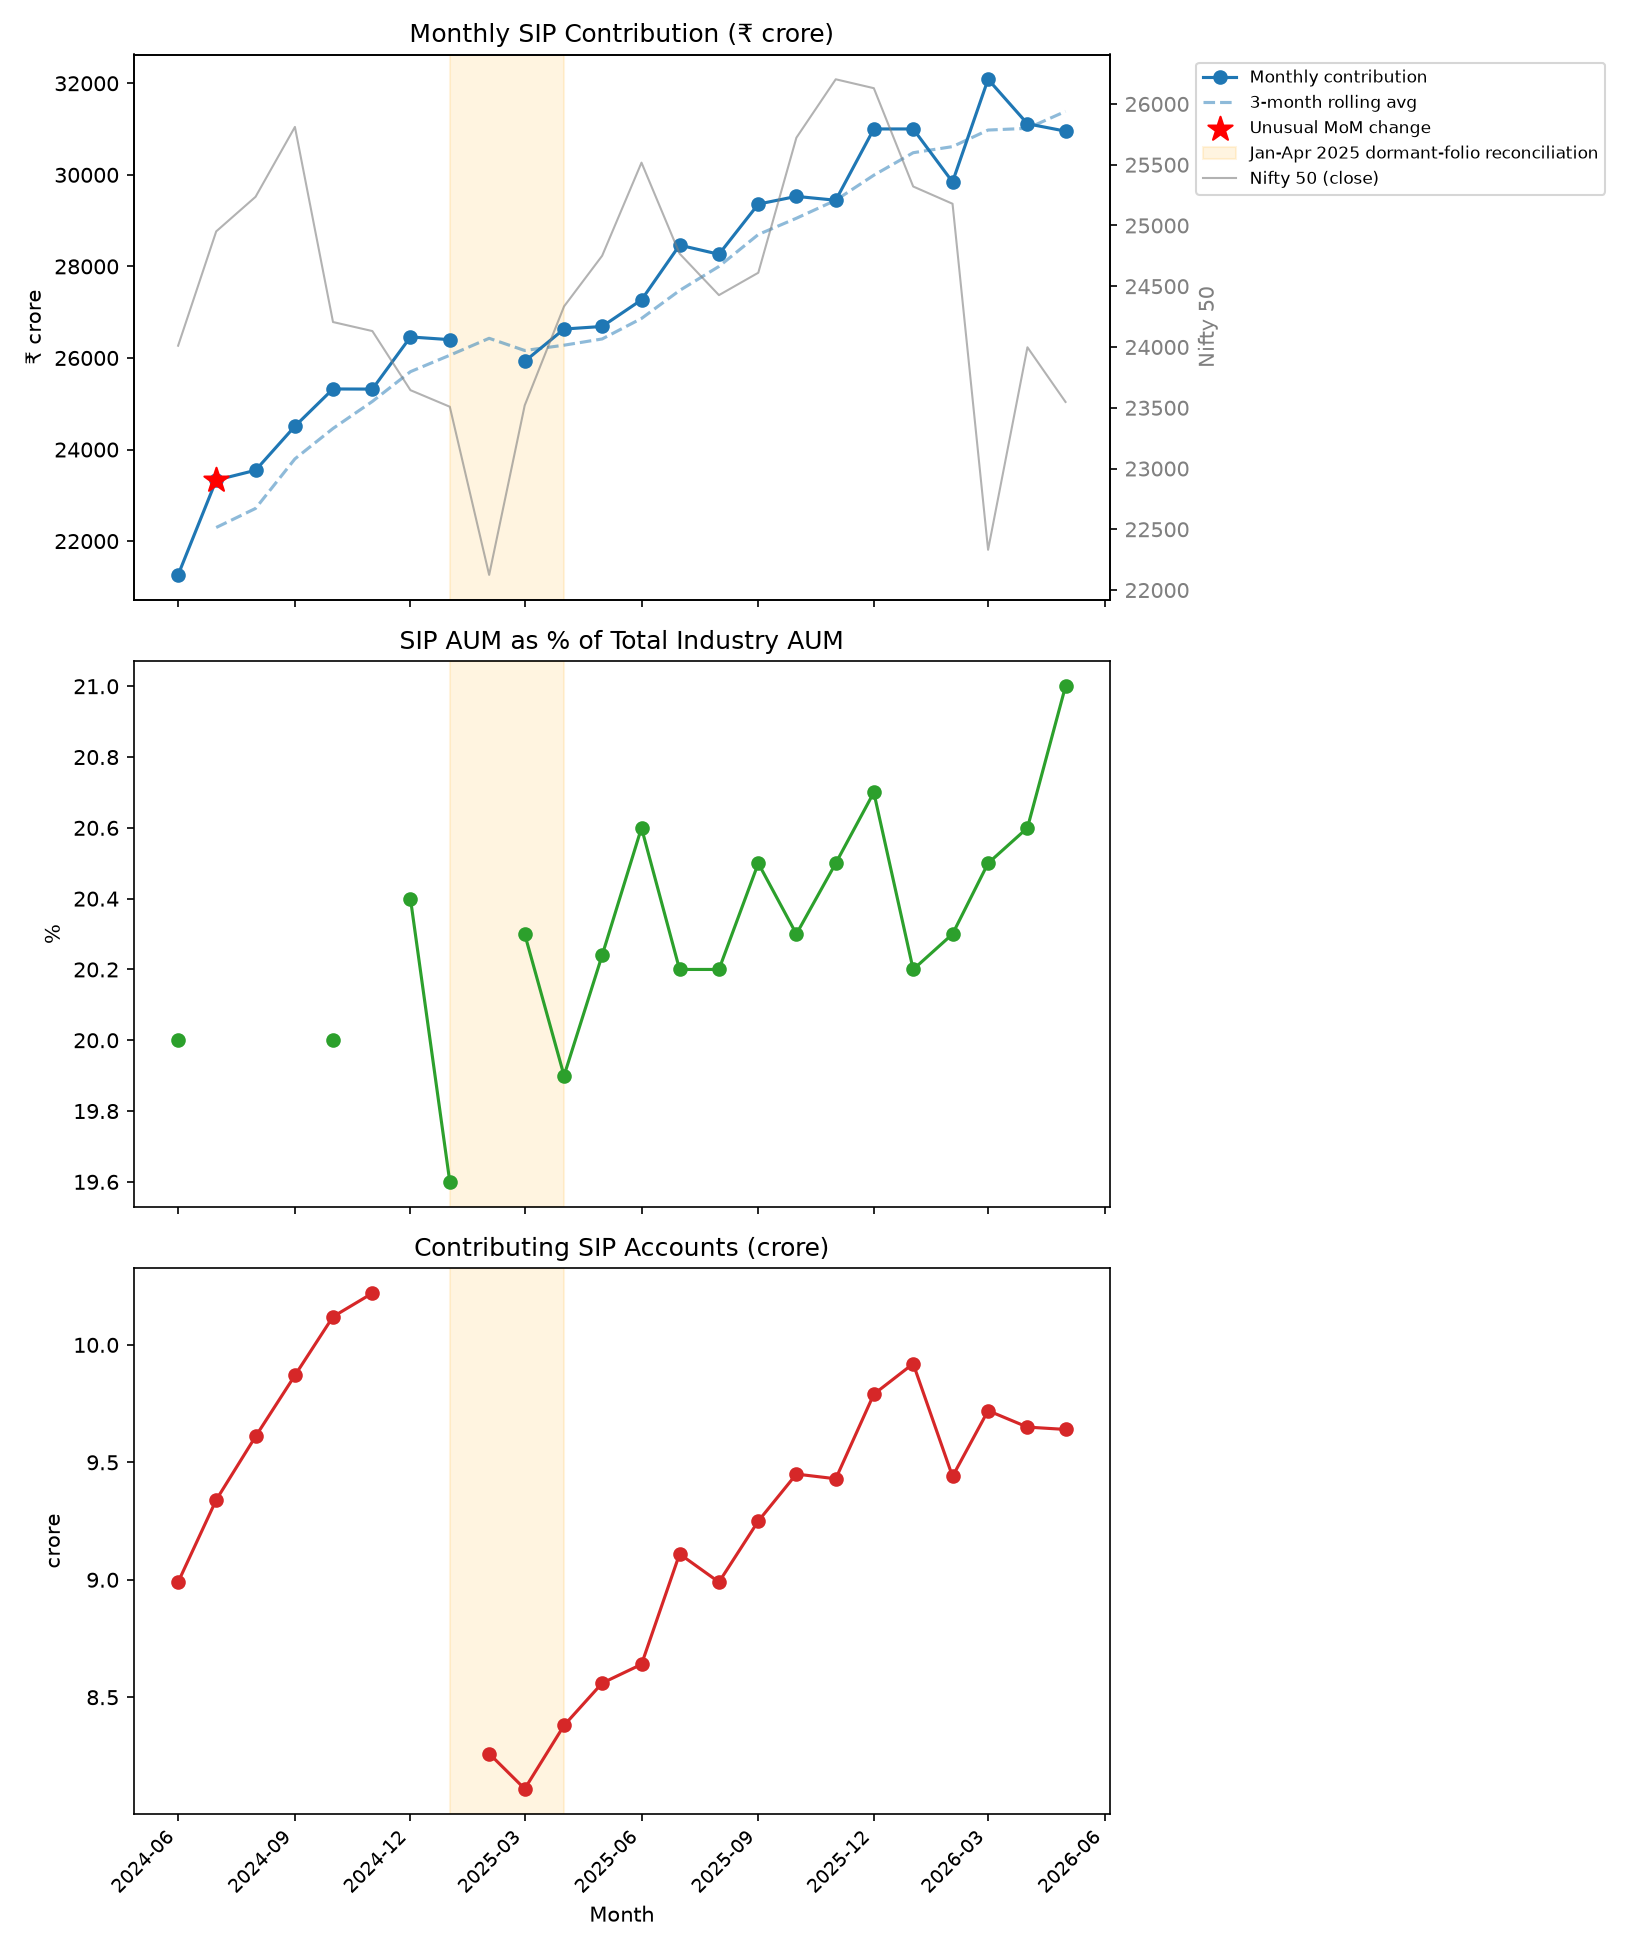
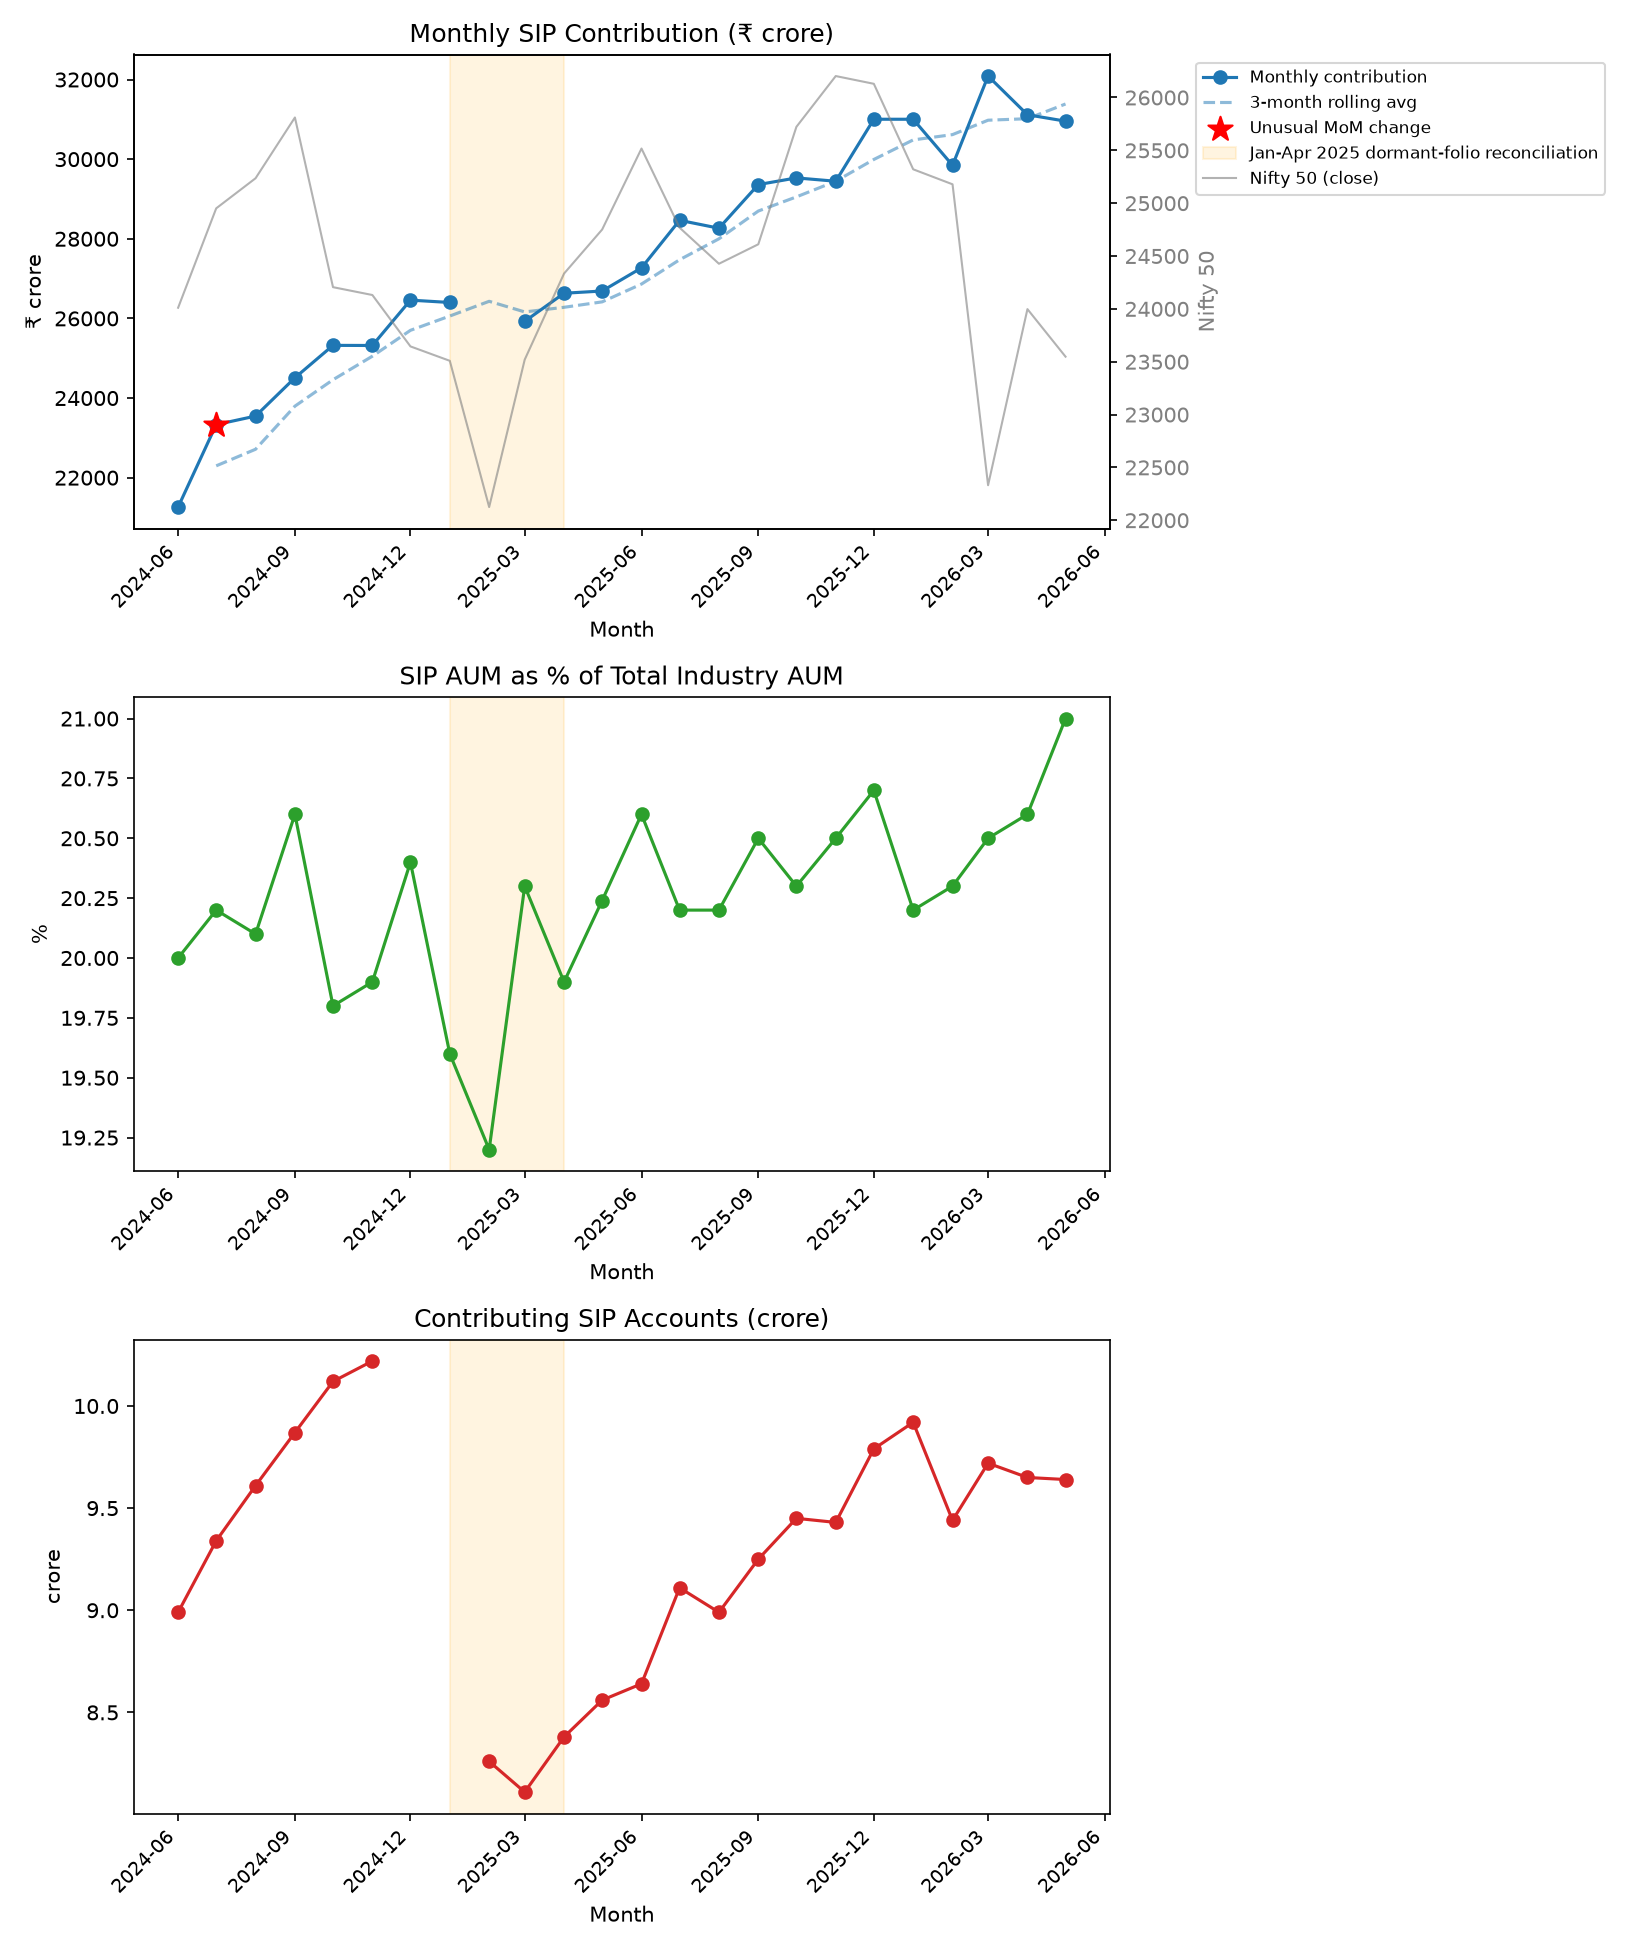
Close SIP AUM % gap, show x-axis labels on every chart panel
parse_pdf.py's sip_aum_pct_of_total_aum patterns required "as a %" and a
pipe-delimited table, but AMFI sometimes writes "as %" (no "a") or renders
the SIP trend table without pipes -- same class of bug fixed earlier for
contributing_accounts_cr. Coverage goes from 19/24 to 24/24 months.

Chart: sharex=True was hiding x-axis labels on the top two panels; each
panel now shows its own month labels instead of relying on the bottom one.
Outlier insight text now notes the small-sample caveat on the z-score.

diff --git a/data/processed/report.html b/data/processed/report.html
@@ -24,8 +24,8 @@
 <li>SIP AUM (2026-05): ₹17.12 lakh crore, 21.0% of total industry AUM.</li>
 <li>Contributing SIP accounts (2026-05): 9.64 crore.</li>
 <li>Net equity inflow (2026-05): ₹22,907 crore.</li>
-<li>Unusual SIP contribution months (>2σ MoM move): 2024-07 (+9.7% MoM).</li>
-<li>Unusual Total industry AUM months (>2σ MoM move): 2026-04 (+11.1% MoM), 2026-03 (-10.1% MoM).</li>
+<li>Unusual SIP contribution months (>2σ MoM move, of 21 months' worth of MoM data): 2024-07 (+9.7% MoM). Small-sample caveat: with under two years of history the z-score threshold itself is noisy, so treat this as 'worth a second look', not a statistically robust anomaly detector.</li>
+<li>Unusual Total industry AUM months (>2σ MoM move, of 23 months' worth of MoM data): 2026-04 (+11.1% MoM), 2026-03 (-10.1% MoM). Small-sample caveat: with under two years of history the z-score threshold itself is noisy, so treat this as 'worth a second look', not a statistically robust anomaly detector.</li>
 <li>Avg. monthly SIP ticket size (2026-05): ~₹3,211 per account. Note: this jumped across Jan-Apr 2025 mechanically, because the dormant-folio purge shrank the accounts denominator faster than contribution changed -- not a sign of investors suddenly investing more per SIP.</li>
 <li>SIP contribution was 135% of net equity inflow in 2026-05 (only 7 months have both figures available; 3 of those months had SIP contribution alone exceed total net equity inflow -- meaning discretionary/lump-sum flow was flat or negative that month).</li>
 <li>SIP contribution MoM change vs. Nifty 50 MoM change: correlation -0.29 across 21 months -- close to zero/weak means SIP flow doesn't move with the market, consistent with the 'systematic investing is resilient through drawdowns' narrative.</li>
@@ -33,6 +33,6 @@
 <li>Coverage caveat: SIP contribution figure present for 23/24 months -- AMFI's Monthly Note phrasing varies enough that some months' figures aren't extracted yet. Category-wise debt/hybrid net flows are sparser still and only meant as directional context.</li>
 <li>Stoppage ratio / new-vs-discontinued SIP counts are not published in AMFI's Monthly Note at all and are left blank here; treat any stoppage-ratio figure from elsewhere as a secondary-source number, not something this pipeline can independently verify.</li>
 </ul>
-<footer>Generated 2026-07-02 20:23 from data/processed/sip_monthly.csv.</footer>
+<footer>Generated 2026-07-02 20:35 from data/processed/sip_monthly.csv.</footer>
 </body>
 </html>

diff --git a/src/report.py b/src/report.py
@@ -99,10 +99,17 @@ def draw_chart(df: pd.DataFrame, out_path: pathlib.Path = CHART_PATH) -> pathlib
     ax2.set_ylabel("crore")
     ax2.set_xlabel("Month")
 
+    # sharex=True hides tick labels on the upper two panels by default;
+    # force them back on so each panel is readable on its own, not just
+    # in reference to the bottom one.
     import matplotlib.dates as mdates
-    ax2.xaxis.set_major_locator(mdates.MonthLocator(interval=3))
-    ax2.xaxis.set_major_formatter(mdates.DateFormatter("%Y-%m"))
-    plt.setp(ax2.get_xticklabels(), rotation=45, ha="right", fontsize=9)
+    for ax in (ax0, ax1, ax2):
+        ax.xaxis.set_major_locator(mdates.MonthLocator(interval=3))
+        ax.xaxis.set_major_formatter(mdates.DateFormatter("%Y-%m"))
+        ax.tick_params(axis="x", labelbottom=True)
+        plt.setp(ax.get_xticklabels(), rotation=45, ha="right", fontsize=9)
+    ax0.set_xlabel("Month")
+    ax1.set_xlabel("Month")
     plt.tight_layout()
     plt.savefig(out_path, dpi=150)
     plt.close(fig)
@@ -172,12 +179,19 @@ def compute_insights(df: pd.DataFrame) -> list[str]:
     if eq_month:
         insights.append(f"Net equity inflow ({eq_month}): ₹{eq_val:,.0f} crore.")
 
-    # Outlier months: genuinely unusual MoM swings, worth a second look
+    # Outlier months: genuinely unusual MoM swings, worth a second look. With
+    # only ~24 months of history the z-score itself is noisy -- flag that so
+    # a single-month reading isn't over-trusted.
     for col, label in [("sip_contribution_cr", "SIP contribution"), ("total_industry_aum_lakh_cr", "Total industry AUM")]:
         flagged = trends.outlier_months(df, col)
         if not flagged.empty:
+            n = df[f"{col}_mom_pct"].notna().sum()
             parts = [f"{r['month']} ({r[f'{col}_mom_pct']:+.1f}% MoM)" for _, r in flagged.iterrows()]
-            insights.append(f"Unusual {label} months (>2σ MoM move): {', '.join(parts)}.")
+            insights.append(
+                f"Unusual {label} months (>2σ MoM move, of {n} months' worth of MoM data): {', '.join(parts)}. "
+                "Small-sample caveat: with under two years of history the z-score threshold itself is noisy, "
+                "so treat this as 'worth a second look', not a statistically robust anomaly detector."
+            )
 
     # Avg ticket size -- flag the purge-window discontinuity so it isn't
     # misread as investors suddenly writing bigger cheques

diff --git a/src/parse_pdf.py b/src/parse_pdf.py
@@ -70,9 +70,17 @@ PATTERNS = {
         rf"sip\s*assets?\s*.{{0,20}}?rs\.?\s*{_NUM}\s*lakh\s*crore",
     ],
     "sip_aum_pct_of_total_aum": [
-        # SIP trend table row: "|SIP assets as a % of industry assets|20.3|...|"
-        rf"sip\s*assets?\s*as\s*a\s*%?\s*(?:of\s*industry\s*assets|percentage\s*of\s*industry\s*(?:\s*<br>)?\s*assets)\|{_NUM}",
+        # SIP trend table row, pipe- or space-delimited depending on how the
+        # PDF's table extracted, and "as % of" or "as a % of" depending on
+        # which year's template AMFI used:
+        # "|SIP assets as a % of industry assets|20.3|...|" / "sip assets as % of indus[try assets] 20.1 20.2..."
+        rf"sip\s*assets?\s*as\s*(?:a\s*)?%?\s*(?:of\s*industry\s*assets|percentage\s*of\s*industry\s*(?:\s*<br>)?\s*assets)\|{_NUM}",
+        rf"sip\s*assets?\s*as\s*(?:a\s*)?%?\s*of\s*industry\s*assets\s*{_NUM}",
         rf"constituting\s*~?{_NUM}\s*%\s*of\s*the\s*industry'?s?\s*aum",
+        # "SIP assets ... accounting for ~19.9% of the industry's assets"
+        rf"accounting\s*for\s*~?{_NUM}\s*%\s*of\s*the\s*industry'?s?\s*assets",
+        # "SIP assets as a percentage of industry assets were around 20%"
+        rf"sip\s*assets?\s*as\s*a\s*percentage\s*of\s*industry\s*assets\s*(?:were|was)\s*around\s*{_NUM}\s*%",
     ],
     "contributing_accounts_cr": [
         rf"(?:number|no\.?)\s*of\s*contributing\s*(?:\(active\)\s*)?sip\s*accounts?\s*(?:\(crore\))?\|{_NUM}",